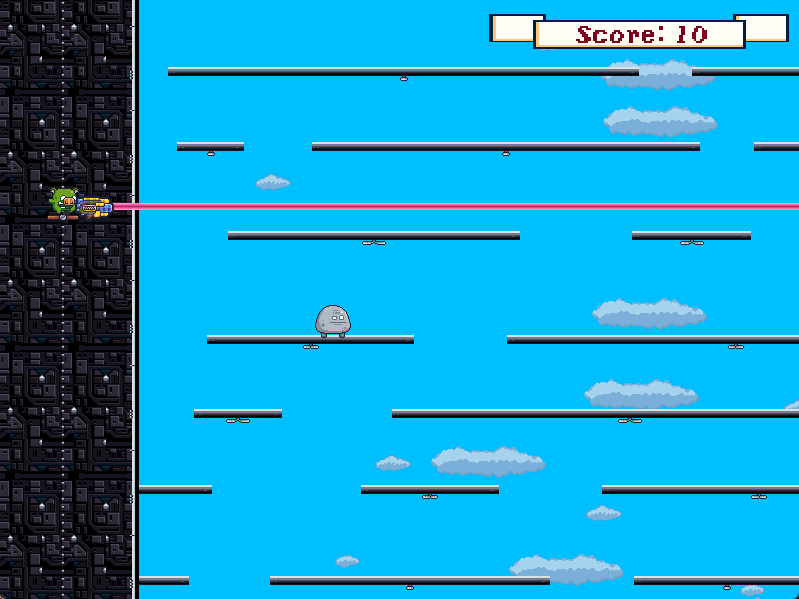
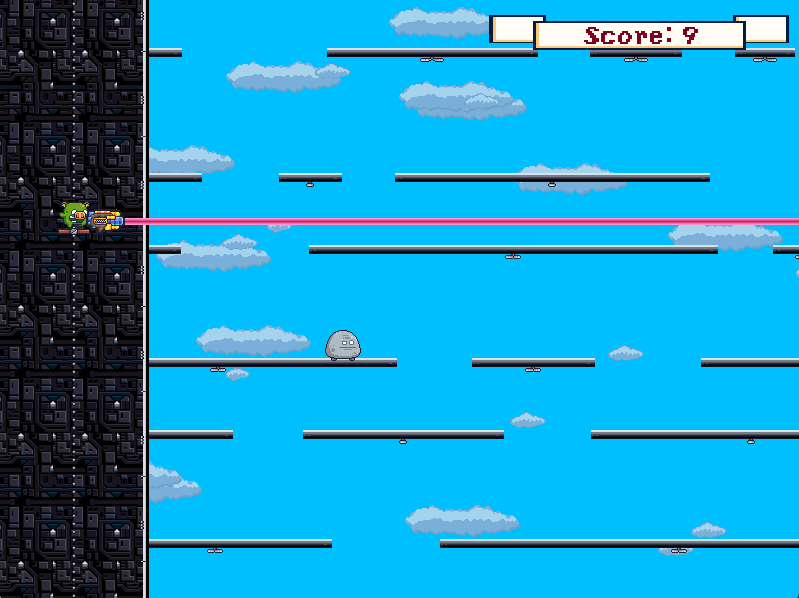
New screenshots

diff --git a/src/main/python/lib/GameConfig.py b/src/main/python/lib/GameConfig.py
@@ -150,7 +150,7 @@ class GameConfig():
         'barrier.cannon.size': (39, 25),
         'barrier.cannon.left.correction': (0, -1),
         'barrier.cannon.right.correction': (-5, -1),
-        'barrier.laser.correction': (3, 3),
+        'barrier.laser.correction': (3, 2),
         'barrier.laserbeam.size': (20, 9),
         'barrier.holder.left.size': (36, 30),
         'barrier.holder.right.size': (36, 30),
